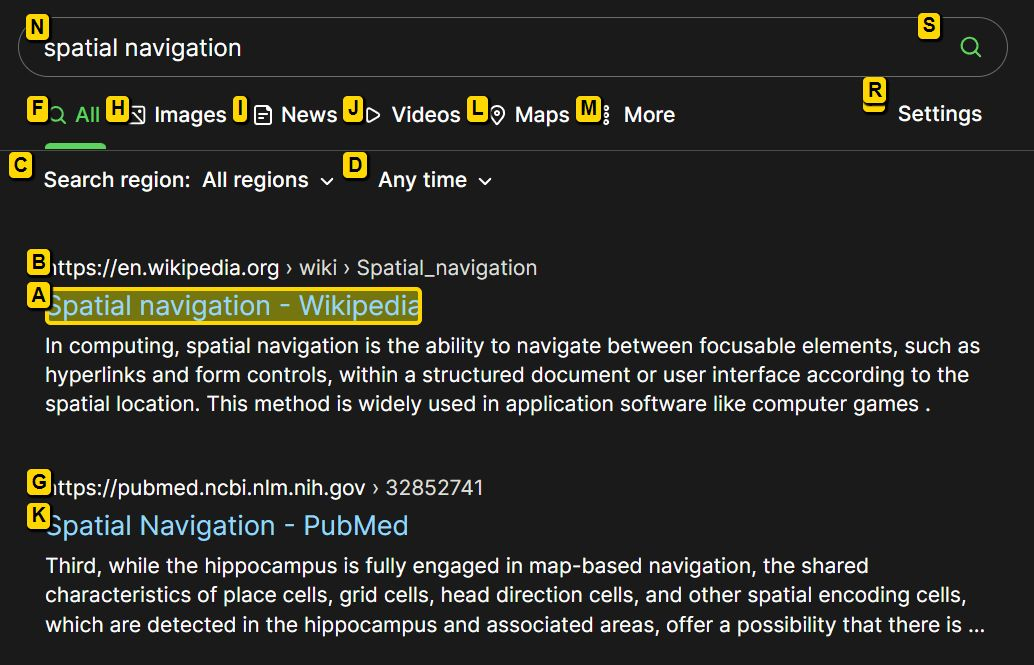
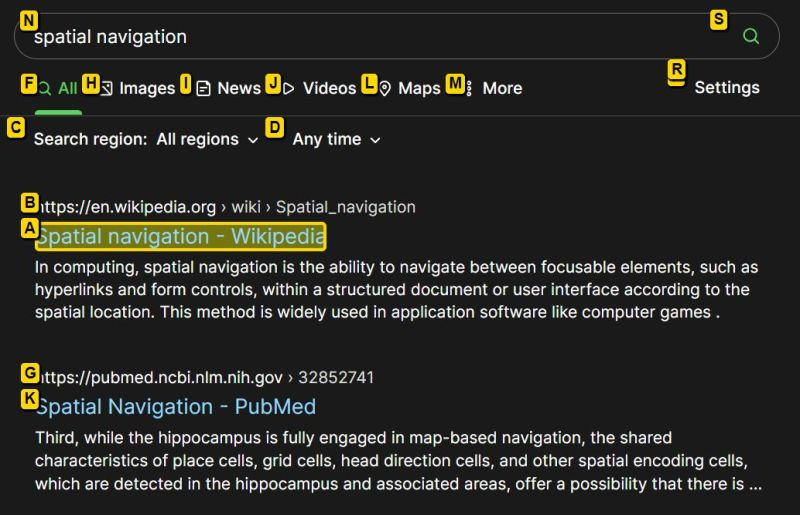
Update readme, screenshot

diff --git a/README.md b/README.md
@@ -13,7 +13,7 @@ Binds WASD, F, E and Q keys for navigation/hints.
 * `E/Shift+E`: Expand/Contract (change link targets)
 * `Q`: Quit navigation/hints mode
 * `Enter/F`: Click link
-* `Shift+Enter/Shift+F`: Shift-click link (open new focused tab)
+* `Shift+Enter/Shift+F`: Shift-click link (open new tab)
 * `Ctrl+Enter/Ctrl+F`: Ctrl-click link (open new background tab)
 * `Ctrl+Shift+X`: Disable the hotkeys (for current tab)
 
@@ -22,5 +22,33 @@ Set your own keys: Click the icon and choose Options, or visit the details page 
 ### Screenshot
 
 ![Screenshot of extension in use](https://raw.githubusercontent.com/Pathduck/spatialnavigation/main/img/screenshot.jpg "Screenshot of extension in use")
+
+### Notes
+
+This extension is far from feature complete, and some things just don't work as expected.
+The inherited code is also a bit of a mess, and since I am no JS coder there's limits to what can be done.
+As this started as a very personal extension for my use, some things are the way I want them and not easily changed.
+
+Here are some of the more common issues/bugs/TODOs and some tips:
+
+* Using `Ctrl+<link key>` in hints mode does not work. Using `Shift+<link key>` works for opening in a new tab though.
+
+*  The default Ctrl+click key interferes with the common shortcut `Ctrl+F` for Find.
+I suggest using something else for Find, like F3, or changing the key to for instance `G`.
+
+* Even if keys are changed, there might be conflict issues with the link hints, see below.
+
+* The extension uses a hard-coded list of link hint keys. These might interfere with common browser keys,especially if single-key shortcuts are used in the browser. If so these will need to be removed from the list.
+
+* The list of available link hint keys are in `js/spatial-navigation.js`:
+`var keys = 'abcdfghijklmnoprstuvwxyz'`
+You can edit this string and reload the extension. You can also add keys you want to use instead, for instance the number keys (if not used for anything else).
+
+* The CSS styles for links/hints/url display can if necessary be changed by editing the following values in `js/spatial-navigation.js`,:
+`this.style.innerHTML`
+`marker.style.cssText`
+`display.style.cssText`
+
+* There are no language options or internationalization.
 
 Any contributions are most welcome! 🤓👍
